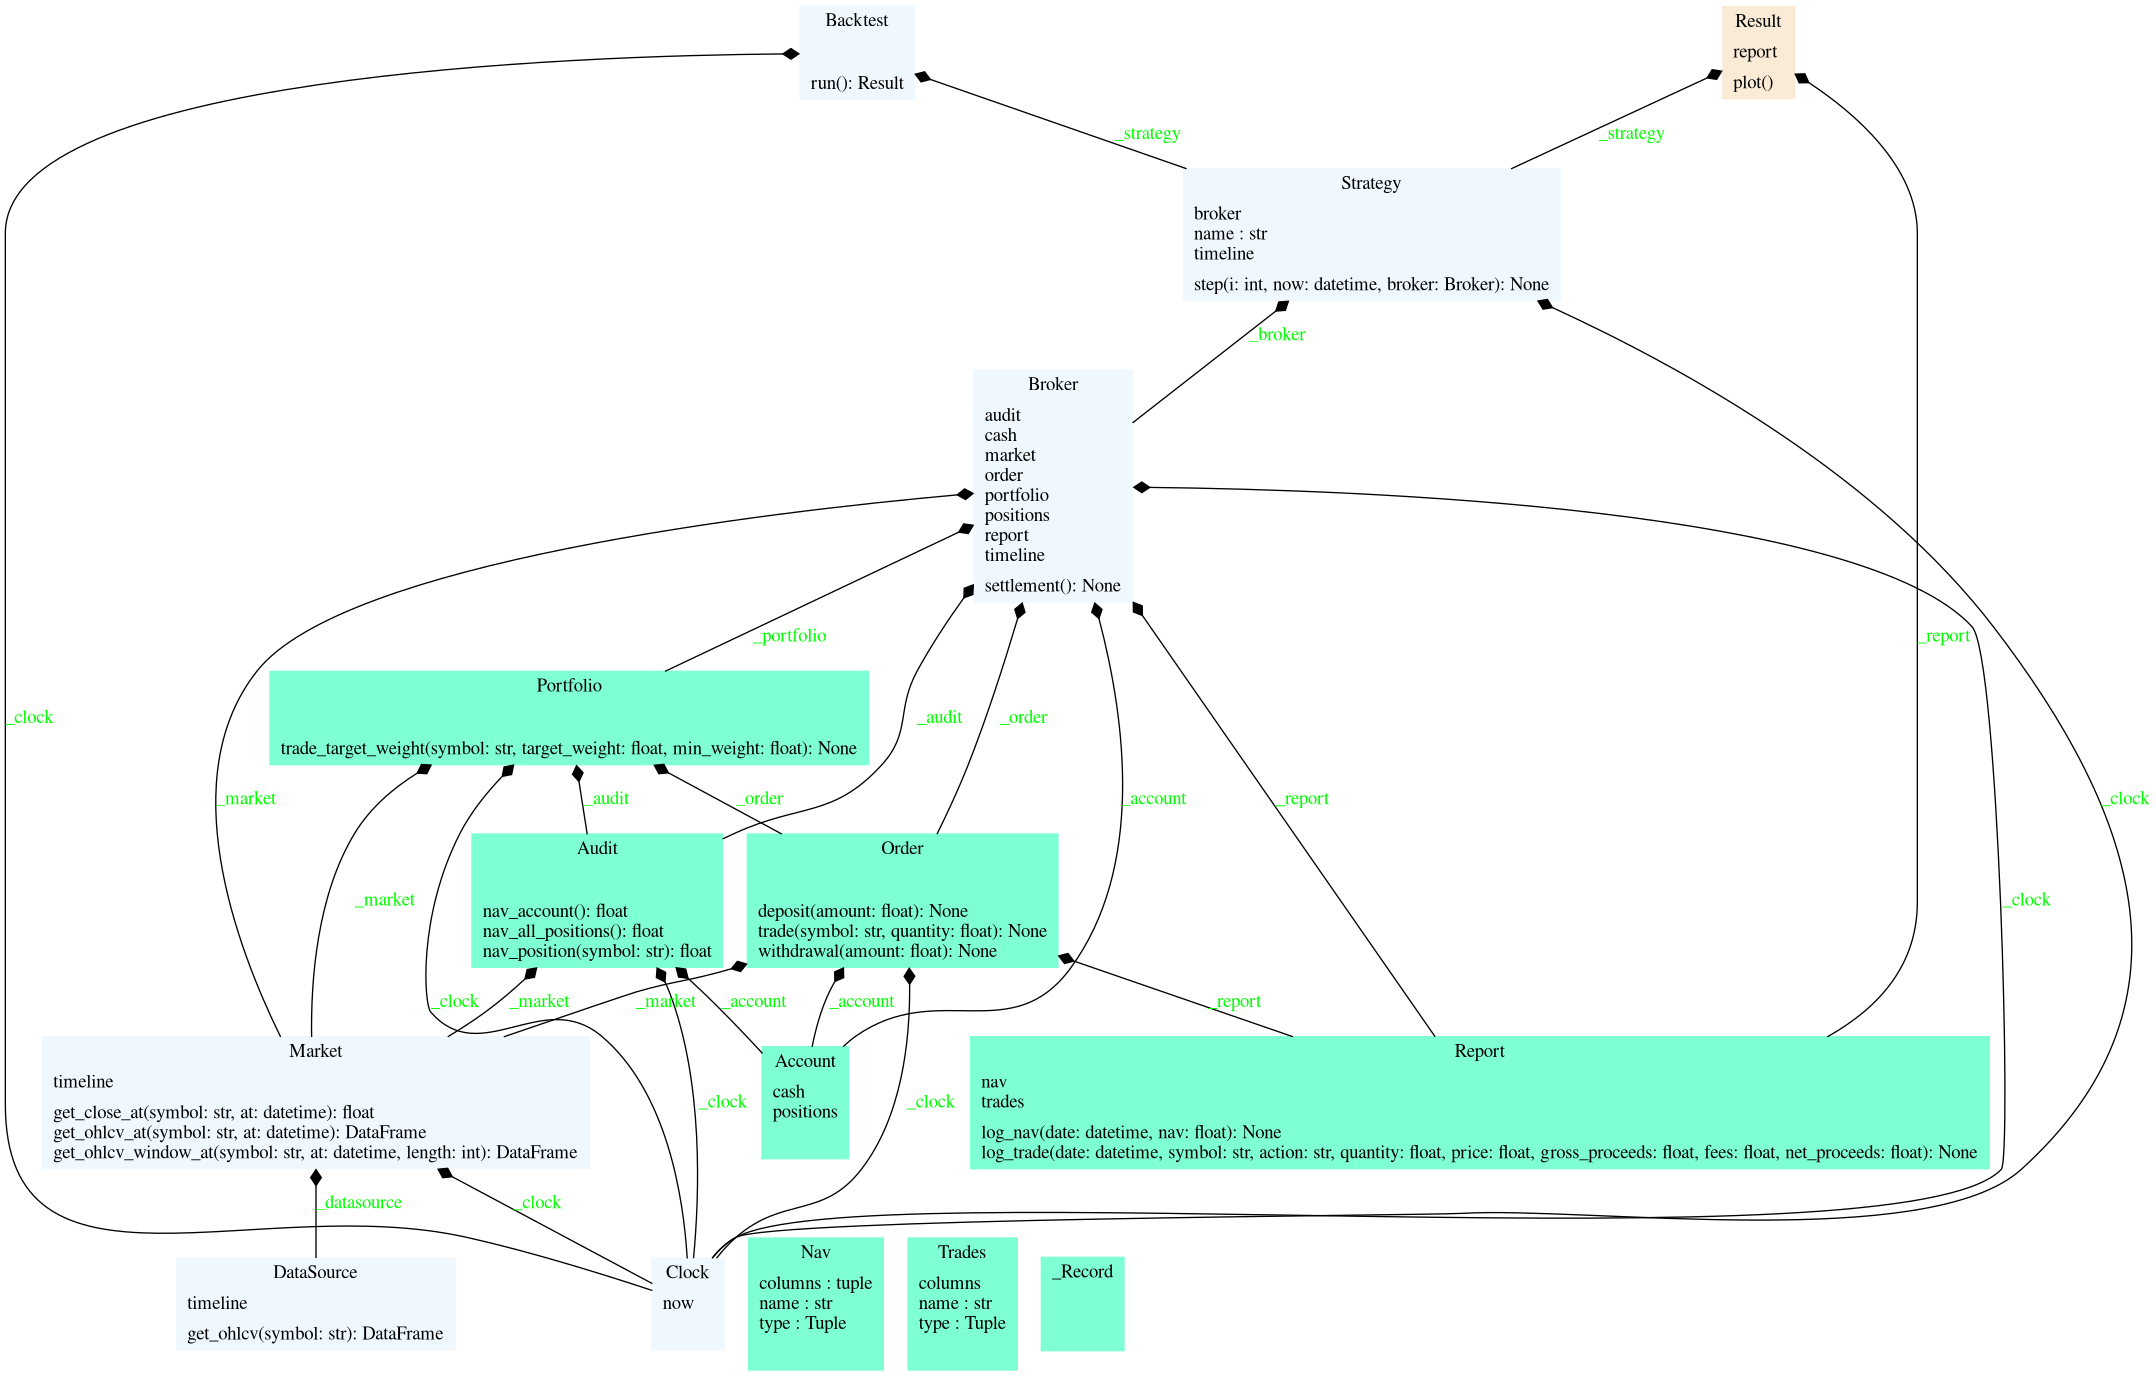
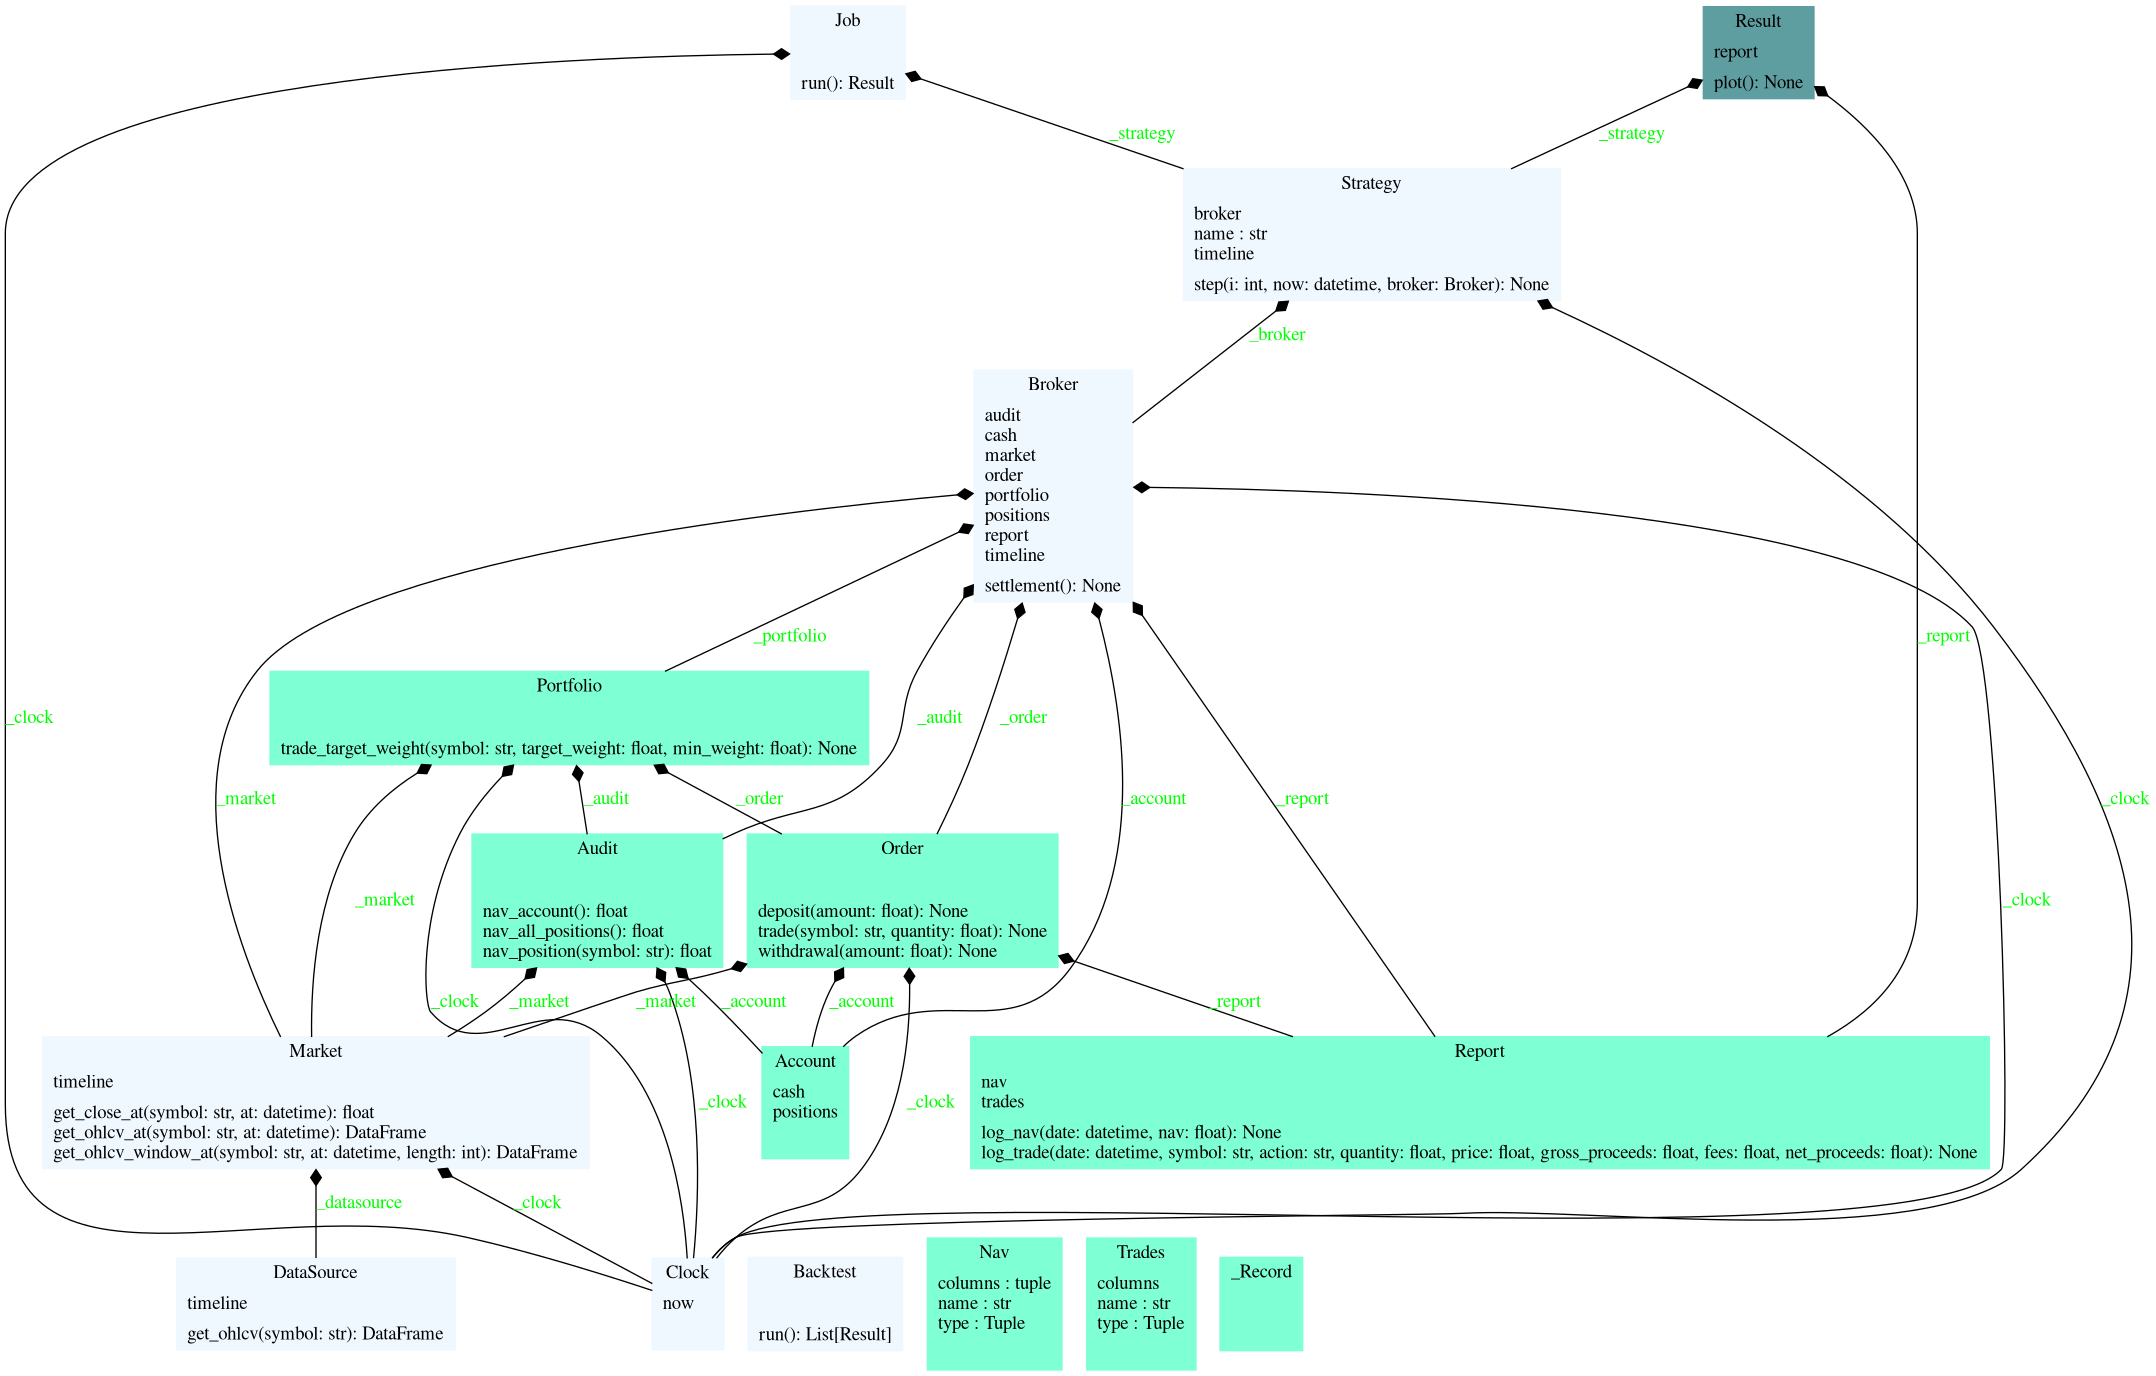
refactor: new Backtest class as a batch job runner

diff --git a/tests/test_multi_jobs.py b/tests/test_multi_jobs.py
@@ -1,0 +1,35 @@
+from datetime import datetime
+from btbox.backtest.utils import create_backtest
+from btbox.broker import Broker
+from btbox.strategy import Strategy
+from btbox.datasource.utils import import_yahoo_csv
+import logging
+
+
+logger = logging.getLogger()
+logger.setLevel(logging.INFO)
+
+
+def test_multi_jobs_basic():
+    INI_CASH = 1e6
+    SYMBOL = 'SPY'
+    dataframes = {SYMBOL: import_yahoo_csv('tests/SPY.csv')}
+
+    class Benchmark(Strategy):
+        name = 'Benchmark'
+
+        def step(self, i: int, now: datetime, broker: Broker):
+            if i == 0:
+                broker.order.deposit(INI_CASH)
+                broker.portfolio.trade_target_weight(SYMBOL, 1.0)
+
+    class CustomStrategy(Strategy):
+        name = 'CustomStrategy'
+
+        def step(self, i: int, now: datetime, broker: Broker):
+            if i == 0:
+                broker.order.deposit(INI_CASH)
+                broker.portfolio.trade_target_weight(SYMBOL, 0.5)
+
+    bt = create_backtest([Benchmark, CustomStrategy], dataframes)
+    bt.run()

diff --git a/btbox/backtest/utils.py b/btbox/backtest/utils.py
@@ -1,0 +1,13 @@
+from typing import Dict, List, Type
+from pandas import DataFrame
+from btbox.backtest import Backtest
+from btbox.job.utils import create_job
+from btbox.strategy import Strategy
+
+
+def create_backtest(CustomStrategys: List[Type[Strategy]],
+                    dataframes: Dict[str, DataFrame]) -> Backtest:
+    jobs = [create_job(CustomStrategy, dataframes)
+            for CustomStrategy in CustomStrategys]
+    backtest = Backtest(jobs)
+    return backtest

diff --git a/btbox/backtest/__init__.py b/btbox/backtest/__init__.py
@@ -1,0 +1,16 @@
+from typing import List
+from btbox.job import Job
+from btbox.job.result import Result
+
+
+class Backtest:
+    def __init__(self,
+                 jobs: List[Job]) -> None:
+        self._jobs = jobs
+
+    def run(self) -> List[Result]:
+        results = []
+        for job in self._jobs:
+            result = job.run()
+            results.append(result)
+        return results

diff --git a/btbox/__init__.py b/btbox/__init__.py
@@ -1,2 +1,3 @@
 from btbox.strategy import Strategy
 from btbox.job.utils import create_job
+from btbox.backtest.utils import create_backtest
